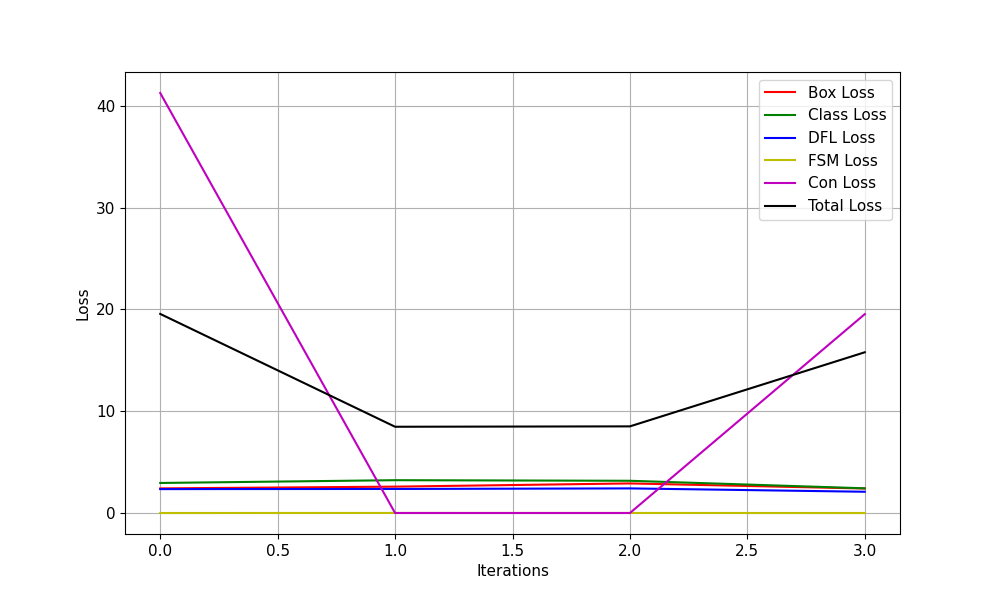
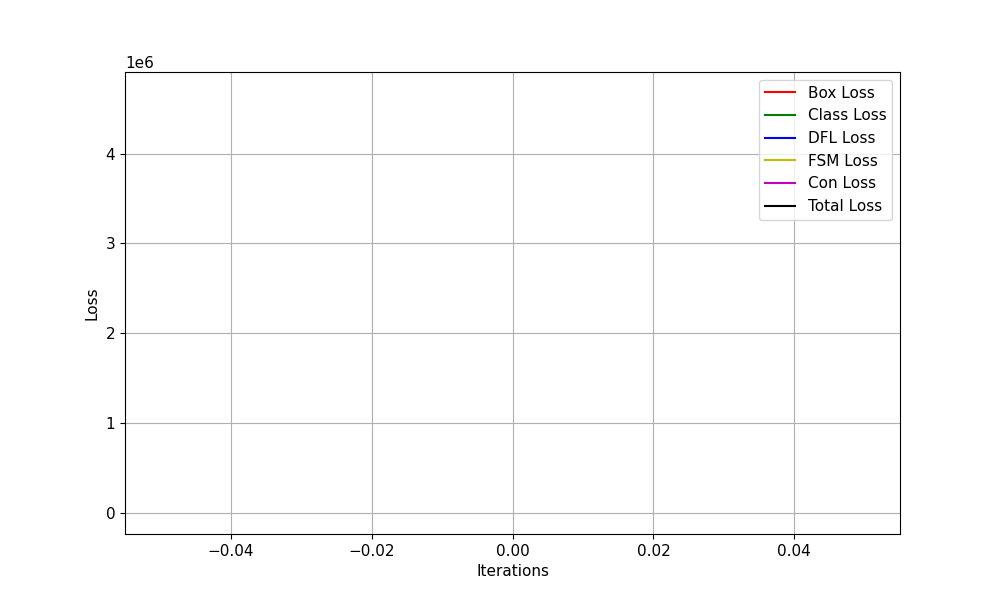
change code for colab

diff --git a/train.py b/train.py
@@ -8,7 +8,8 @@ from matplotlib import pyplot as plt
 from torch.optim import lr_scheduler
 from torch.utils.data import DataLoader
 import sys
-path = r"D:\UNI\LAB\FIOD_\yolov9_main"
+# path = r"D:\UNI\LAB\FIOD_\yolov9_main"
+path = r"/content/drive/Othercomputers/laptop/FIOD_/yolov9_main"
 sys.path.insert(0, path)
 # import wandb
 from tqdm import tqdm
@@ -27,6 +28,8 @@ from models_.fogpassfilter import FogPassFilter_conv1, FogPassFilter_res1, FogPa
 from models.yolo import Model
 from train import parse_opt
 
+device = torch.device("cuda" if torch.cuda.is_available() else "cpu")
+print(f"device: {device}")
 
 
 def gram_matrix(feature_map):
@@ -56,7 +59,7 @@ def plot_losses(box_losses, cls_losses, dfl_losses, fsm_losses, con_losses, tota
     plt.plot(range(len(fsm_losses)), fsm_losses_np, label='FSM Loss', color='y')
     plt.plot(range(len(con_losses)), con_losses_np, label='Con Loss', color='m')
     plt.plot(range(len(total_losses)), total_losses_np, label='Total Loss', color='k')
-    plt.xlabel('Iterations')
+    plt.xlabel('Epochs')
     plt.ylabel('Loss')
     plt.legend()
     plt.grid(True)
@@ -72,9 +75,10 @@ def plot_losses(box_losses, cls_losses, dfl_losses, fsm_losses, con_losses, tota
 def intersect_dicts(da, db, exclude=()):
     return {k: v for k, v in da.items() if k in db and all(x not in k for x in exclude) and v.shape == db[k].shape}
 
-def get_model(checkpoint_path = r"D:\UNI\LAB\FIOD_\yolov9-s.pt"):
+# def get_model(checkpoint_path = r"D:\UNI\LAB\FIOD_\yolov9-s.pt"):
+def get_model(checkpoint_path = r"/content/drive/Othercomputers/laptop/FIOD_/yolov9-s.pt"):
     checkpoint = torch.load(checkpoint_path, map_location="cpu")
-    model = Model(checkpoint['model'].yaml).to("cpu")
+    model = Model(checkpoint['model'].yaml).to(device)
     csd = checkpoint['model'].float().state_dict()
     csd = intersect_dicts(csd, model.state_dict(), exclude=())
     model.load_state_dict(csd, strict=False)
@@ -153,8 +157,6 @@ def visualize_sample(dataset, index=0, target_size=640):
 def main():
     # wandb.init(mode="disabled")
     args = get_arguments()
-    device = torch.device("cuda" if torch.cuda.is_available() else "cpu")
-    print(f"device: {device}")
     lr_fpf1 = 1e-3  # lr của fogpass filter
     lr_fpf2 = 1e-3
 
@@ -265,7 +267,7 @@ def main():
 
     save_dir = os.path.join(os.path.dirname(__file__), 'results')
     gs = max(int(model.stride.max()), 32)
-    val_loader = create_dataloader(r"E:\yolov9_modify_architecture\cityscape_yolo_format_subset_2000_foggy\val",
+    val_loader = create_dataloader(r"/content/yolo_data/yolov9_modify_architecture/cityscape_yolo_format_subset_2000_foggy/val",
                                    640,
                                    args.batch_size,
                                    gs,
@@ -278,7 +280,7 @@ def main():
                                    pad=0.5,
                                    prefix=colorstr('val: '))[0]
 
-    model.half().float()
+    # model.half().float()
 
     #################
     # criterion = nn.MSELoss()
@@ -304,6 +306,9 @@ def main():
         loss_fsm_value = 0
         loss_con_value = 0
         num_batches = len(cwsf_pair_loader)
+        num_batches_cw_sf = 0
+
+        print("Number of batches: ", num_batches)
 
         # Progress bar for the current epoch
         pbar = tqdm(enumerate(cwsf_pair_loader), total=len(cwsf_pair_loader), desc=f"Epoch {epoch + 1}/{args.num_epochs}")
@@ -431,13 +436,14 @@ def main():
             con_loss = 0
 
             if batch_idx % 3 == 0:
+                num_batches_cw_sf += 1
                 # SF-CW training
                 sf_images = foggy_image.to(device, non_blocking=True).float()
                 cw_images = clear_image.to(device, non_blocking=True).float()
                 boxes = box.to(device)
 
                 # Get predictions and features
-                with torch.cuda.amp.autocast(amp_device):
+                with torch.amp.autocast(amp_device):
                     sf_predictions = model(sf_images)  # forward
                     sf_loss, sf_loss_items = compute_loss(sf_predictions[1], boxes)
                     sf_box_loss, sf_class_loss, sf_dfl_loss = sf_loss_items
@@ -470,7 +476,7 @@ def main():
                 rf_images = rf_img.to(device, non_blocking=True).float()
                 boxes = box.to(device)
 
-                with torch.cuda.amp.autocast(amp_device):
+                with torch.amp.autocast(amp_device):
                     sf_predictions = model(sf_images)  # forward
                     sf_loss, sf_loss_items = compute_loss(sf_predictions[1], boxes)
                     sf_box_loss, sf_class_loss, sf_dfl_loss = sf_loss_items
@@ -491,7 +497,7 @@ def main():
                 rf_images = rf_img.to(device, non_blocking=True).float()
                 boxes = box.to(device)
 
-                with torch.cuda.amp.autocast(amp_device):
+                with torch.amp.autocast(amp_device):
                     cw_predictions = model(cw_images)
                     cw_loss, cw_loss_items = compute_loss(cw_predictions[1], boxes)
                     cw_box_loss, cw_class_loss, cw_dfl_loss = cw_loss_items
@@ -606,7 +612,7 @@ def main():
                 loss_fsm_value += loss_fsm.data.cpu().numpy() / num_batches
             if con_loss != 0:
                 # con_loss = con_loss * args.weight_con
-                loss_con_value += con_loss.data.cpu().numpy() / num_batches
+                loss_con_value += con_loss.data.cpu().numpy()
 
             # wandb.log({
             #     "box_loss": loss_box_value,
@@ -620,24 +626,26 @@ def main():
             scheduler.step()
 
             ema.update_attr(model, include=['yaml', 'nc', 'hyp', 'names', 'stride', 'class_weights'])
-            final_epoch = (batch_idx + 1 == args.num_steps) or stopper.possible_stop
-            if final_epoch:  # Calculate mAP
-                print("val")
-                results, maps, _ = validate.run(batch_size=args.batch_size,
-                                                half=amp,
-                                                model=ema.ema,
-                                                single_cls=False,
-                                                dataloader=val_loader,
-                                                save_dir=save_dir,
-                                                plots=False,
-                                                compute_loss=compute_loss)
-                print("eval")
+            # final_epoch = (batch_idx + 1 == args.num_steps) or stopper.possible_stop
+            # if final_epoch:  # Calculate mAP
+            #     print("val")
+            #     results, maps, _ = validate.run(batch_size=args.batch_size,
+            #                                     half=amp,
+            #                                     model=ema.ema,
+            #                                     single_cls=False,
+            #                                     dataloader=val_loader,
+            #                                     save_dir=save_dir,
+            #                                     plots=False,
+            #                                     compute_loss=compute_loss)
+            #     print("eval")
 
-            # Update best mAP
-            fi = fitness(np.array(results).reshape(1, -1))  # weighted combination of [P, R, mAP@.5, mAP@.5-.95]
-            if fi > best_fitness:
-                best_fitness = fi
+            # # Update best mAP
+            # fi = fitness(np.array(results).reshape(1, -1))  # weighted combination of [P, R, mAP@.5, mAP@.5-.95]
+            # if fi > best_fitness:
+            #     best_fitness = fi
 
+        print("Number of batches of pair CW-SF: ", num_batches_cw_sf)
+        loss_con_value /= num_batches_cw_sf
 
         box_losses.append(loss_box_value)
         dfl_losses.append(loss_dfl_value)
@@ -656,37 +664,37 @@ def main():
             f"{colorstr('bright_magenta', 'con_loss')}: {loss_con_value:.4f}"
         )
 
-        # End of epoch validation
-        print("\nRunning validation...")
-        results, maps, _ = validate.run(
-            batch_size=args.batch_size,
-            half=amp,
-            model=ema.ema,
-            single_cls=False,
-            dataloader=val_loader,
-            save_dir=save_dir,
-            plots=False,
-            compute_loss=compute_loss
-        )
+        # # End of epoch validation
+        # print("\nRunning validation...")
+        # results, maps, _ = validate.run(
+        #     batch_size=args.batch_size,
+        #     half=amp,
+        #     model=ema.ema,
+        #     single_cls=False,
+        #     dataloader=val_loader,
+        #     save_dir=save_dir,
+        #     plots=False,
+        #     compute_loss=compute_loss
+        # )
 
-        # Update best mAP
-        fi = fitness(np.array(results).reshape(1, -1))
-        if fi > best_fitness:
-            best_fitness = fi
-            # Save best model
-            torch.save({
-                'epoch': epoch,
-                'model_state_dict': model.state_dict(),
-                'optimizer_state_dict': optimizer.state_dict(),
-                'best_fitness': best_fitness,
-            }, os.path.join(save_dir, 'best.pt'))
+        # # Update best mAP
+        # fi = fitness(np.array(results).reshape(1, -1))
+        # if fi > best_fitness:
+        #     best_fitness = fi
+        #     # Save best model
+        #     torch.save({
+        #         'epoch': epoch,
+        #         'model_state_dict': model.state_dict(),
+        #         'optimizer_state_dict': optimizer.state_dict(),
+        #         'best_fitness': best_fitness,
+        #     }, os.path.join(save_dir, 'best.pt'))
 
         # Learning rate scheduling
         scheduler.step()
 
-        # Early stopping check
-        if stopper(epoch=epoch, fitness=fi):
-            break
+        # # Early stopping check
+        # if stopper(epoch=epoch, fitness=fi):
+        #     break
 
     plot_losses(box_losses, cls_losses, dfl_losses, fsm_losses, con_losses, total_losses)
     print("end")

diff --git a/config/config.py b/config/config.py
@@ -2,20 +2,25 @@ import argparse
 
 IMG_MEAN = (104.00698793, 116.66876762, 122.67891434)
 BETA = 0.005
-BATCH_SIZE = 2
+BATCH_SIZE = 4
 ITER_SIZE = 1
 NUM_WORKERS = 0
 INPUT_SIZE = '2048,1024'
 INPUT_SIZE_RF = '1280,960'
-NUM_EPOCHS = 1
+NUM_EPOCHS = 10
 NUM_STEPS = 1000000
 NUM_STEPS_STOP = 60000  # early stopping
 RANDOM_SEED = 1234
 
-SF_ROOT = "E:\\yolov9_modify_architecture\\cityscape_yolo_format_subset_2000_foggy"
-CW_ROOT = "E:\\yolov9_modify_architecture\\cityscape_yolo_format_subset_2000"
-RF_ROOT = "E:\\yolov9_modify_architecture\\Foggy_Driving/Foggy_Driving"
-RF_LIST_FILE = "E:\\yolov9_modify_architecture\\Foggy_Driving\\Foggy_Driving\\lists_file_names\\leftImg8bit_testall_filenames.txt"
+SF_ROOT = r"/content/yolo_data/yolov9_modify_architecture/cityscape_yolo_format_subset_2000_foggy"
+CW_ROOT = r"/content/yolo_data/yolov9_modify_architecture/cityscape_yolo_format_subset_2000"
+RF_ROOT = r"/content/yolo_data/yolov9_modify_architecture/Foggy_Driving/Foggy_Driving"
+RF_LIST_FILE = r"/content/yolo_data/yolov9_modify_architecture/Foggy_Driving/Foggy_Driving/lists_file_names/leftImg8bit_testall_filenames.txt"
+
+# SF_ROOT = "E:\\yolov9_modify_architecture\\cityscape_yolo_format_subset_2000_foggy"
+# CW_ROOT = "E:\\yolov9_modify_architecture\\cityscape_yolo_format_subset_2000"
+# RF_ROOT = "E:\\yolov9_modify_architecture\\Foggy_Driving/Foggy_Driving"
+# RF_LIST_FILE = "E:\\yolov9_modify_architecture\\Foggy_Driving\\Foggy_Driving\\lists_file_names\\leftImg8bit_testall_filenames.txt"
 
 # SF_ROOT = r"D:\Downloads\lab\dataset\data\yolov9 modify architecture\cityscape_yolo_format_subset_2000_foggy"
 # CW_ROOT = r"D:\Downloads\lab\dataset\data\yolov9 modify architecture\cityscape_yolo_format_subset_2000"
